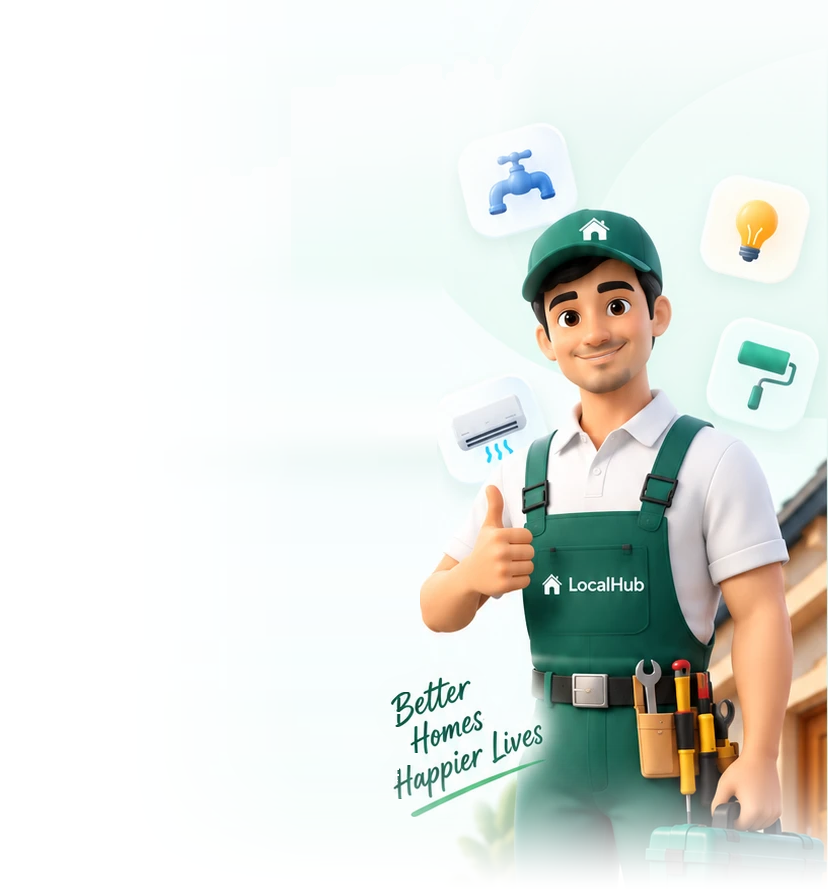
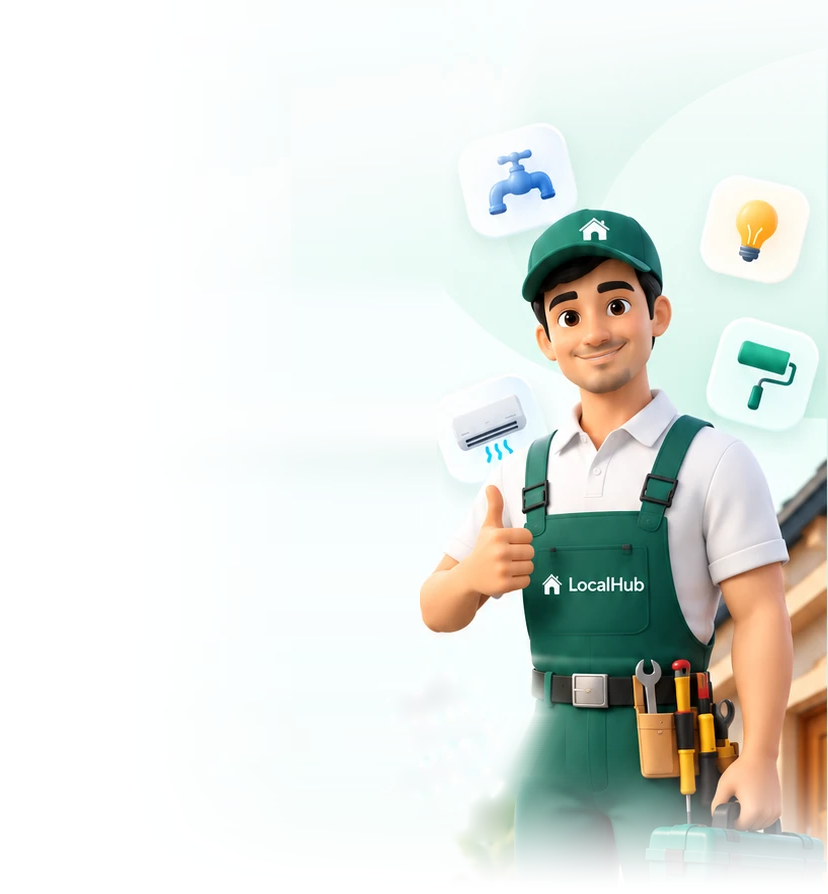
Welcome screen: remove the baked-in script, grow the technician, polish the field
Artwork: the "Better Homes Happier Lives" line and its underline are gone. The
words were lifted with a component mask and Laplace fill; the tail that sits on
the trousers was rebuilt from the clean rows above and below, shifted so the leg
silhouette stays aligned. assets/hero-technician.build.py reproduces the asset
from the original extraction.

Layout: the illustration is drawn 22% oversized - its left half is empty, so only
the technician grows - and the copy column is capped so the two never meet. The
feature rows sit with the headline again.

Field: react-native-web's square focus outline is suppressed and replaced with a
halo that follows the rounded corners, the number formats as 98765 43210 as it is
typed, and there is a clear button and a valid-number tick. The country chevron
that opened nothing is gone.

diff --git a/apps/mobile/app/(auth)/phone.tsx b/apps/mobile/app/(auth)/phone.tsx
@@ -9,6 +9,7 @@ import Animated, {
   FadeIn,
   FadeInDown,
   FadeInLeft,
+  interpolateColor,
   useAnimatedStyle,
   useSharedValue,
   withRepeat,
@@ -41,11 +42,20 @@ interface Feature {
 
 const FEATURES: Feature[] = [
   { icon: 'shield-checkmark', from: '#E6F7EF', to: '#C8EBDC', fg: '#0E8A6A', title: 'Verified', body: 'Professionals' },
-  { icon: 'flash', from: '#FFF6E0', to: '#FFE8B8', fg: '#F0A400', title: 'Quick', body: '& Easy Booking' },
-  { glyph: '₹', from: '#E6F7EF', to: '#C8EBDC', fg: '#0E8A6A', title: 'Affordable', body: '& Transparent Pricing' },
+  { icon: 'flash', from: '#FFF6E0', to: '#FFE8B8', fg: '#F0A400', title: 'Quick', body: 'Easy booking' },
+  { glyph: '₹', from: '#E6F7EF', to: '#C8EBDC', fg: '#0E8A6A', title: 'Affordable', body: 'Clear pricing' },
 ];
 
+// The illustration is anchored bottom-right and its left half is empty, so it can be
+// drawn larger than the hero box. This is how much of the width the copy may use -
+// the rest is the technician's, and the two never meet.
+const COPY_WIDTH = 0.44;
+
 const AnimatedPressable = Animated.createAnimatedComponent(Pressable);
+
+// react-native-web renders a real <input>, which the browser gives a square focus
+// outline that ignores our rounded field. The halo below replaces it.
+const NO_OUTLINE = Platform.OS === 'web' ? ({ outlineStyle: 'none' } as object) : null;
 
 export default function PhoneScreen() {
   const t = useStrings();
@@ -66,13 +76,15 @@ export default function PhoneScreen() {
   const natWidth = heroBox.w || width;
   const natHeight = natWidth * HERO_RATIO;
   const fit = heroBox.h > 0 ? Math.min(1, heroBox.h / natHeight) : 1;
-  // on short handsets pull the art in a little more so the script line clears the copy
-  const scale = Math.max(height < 700 ? fit * 0.92 : fit, 0.7);
+  // the artwork's left half is empty, so drawing it oversized only makes the technician
+  // bigger - it grows into that margin, never into the copy column
+  const grow = compact ? 1.1 : 1.22;
+  const scale = Math.max((height < 700 ? fit * 0.92 : fit) * grow, 0.7);
   const heroWidth = natWidth * scale;
   const heroHeight = natHeight * scale;
-  // the hand-written line baked into the art occupies the bottom third of it - keep the
-  // feature rows above that band so nothing ever crosses the copy
-  const copyBottomInset = Math.min(Math.max(52, heroHeight * 0.33), compact ? 70 : 150);
+  // the copy is laid out top-and-bottom, so this inset is what lifts the feature rows
+  // clear of the card and keeps them sitting with the headline rather than under it
+  const copyBottomInset = Math.min(Math.max(72, heroHeight * 0.26), compact ? 96 : 140);
 
   // continuous gentle float of the whole illustration
   const floatY = useSharedValue(0);
@@ -115,6 +127,19 @@ export default function PhoneScreen() {
   };
 
   const borderColor = error ? palette.danger : focused ? palette.primary : '#E4EDE9';
+  const digits = phone.replace(/\D/g, '');
+  const complete = normaliseIndianPhone(phone) !== null;
+
+  // a focus halo that follows the field's rounded corners, instead of the square
+  // outline a browser draws on the input itself
+  const ring = useSharedValue(0);
+  const ringStyle = useAnimatedStyle(() => ({
+    backgroundColor: interpolateColor(
+      ring.value,
+      [0, 1],
+      ['rgba(18,136,106,0)', error ? 'rgba(214,69,69,0.12)' : 'rgba(18,136,106,0.13)'],
+    ),
+  }));
 
   return (
     <LinearGradient colors={['#FFFFFF', '#FBFDFD', '#F4FDFA', '#EAF8F1']} locations={[0, 0.35, 0.72, 1]} style={styles.root}>
@@ -167,7 +192,7 @@ export default function PhoneScreen() {
               </Animated.View>
               </View>
 
-              <View style={[styles.features, compact && styles.featuresCompact]}>
+              <View style={[styles.features, compact && styles.featuresCompact, { maxWidth: width * COPY_WIDTH + 40 }]}>
                 {FEATURES.map((f, i) => (
                   <Animated.View key={f.title} entering={FadeInLeft.delay(400 + i * 110).duration(520)} style={styles.feature}>
                     <LinearGradient colors={[f.from, f.to]} start={{ x: 0.2, y: 0 }} end={{ x: 0.8, y: 1 }} style={styles.featureIcon}>
@@ -194,8 +219,9 @@ export default function PhoneScreen() {
             </Text>
             <Text style={styles.fieldLabel}>Mobile number</Text>
 
-            <Animated.View style={[styles.field, compact && styles.fieldCompact, { borderColor }, fieldStyle]}>
-              <Pressable accessibilityRole="button" accessibilityLabel="Country code India +91" style={styles.country}>
+            <Animated.View style={[styles.ring, ringStyle, fieldStyle]}>
+            <View style={[styles.field, compact && styles.fieldCompact, { borderColor }]}>
+              <View accessible accessibilityLabel="Country code India +91" style={styles.country}>
                 <View style={styles.flag}>
                   <View style={[styles.flagBand, { backgroundColor: '#FF9933' }]} />
                   <View style={[styles.flagBand, styles.flagMid]}>
@@ -206,28 +232,43 @@ export default function PhoneScreen() {
                 <Text weight="semibold" style={styles.code}>
                   +91
                 </Text>
-                <Ionicons name="chevron-down" size={16} color="#8FA39B" />
-              </Pressable>
+              </View>
               <View style={styles.divider} />
               <TextInput
-                value={phone}
+                value={digits.length > 5 ? `${digits.slice(0, 5)} ${digits.slice(5)}` : digits}
                 onChangeText={(v) => {
-                  setPhone(v);
+                  setPhone(v.replace(/\D/g, '').slice(0, 10));
                   if (error) setError(null);
                 }}
-                onFocus={() => setFocused(true)}
-                onBlur={() => setFocused(false)}
+                onFocus={() => {
+                  setFocused(true);
+                  ring.value = withTiming(1, { duration: 190 });
+                }}
+                onBlur={() => {
+                  setFocused(false);
+                  ring.value = withTiming(0, { duration: 190 });
+                }}
                 onSubmitEditing={submit}
                 placeholder="98765 43210"
                 placeholderTextColor="#A9B8B1"
                 keyboardType="phone-pad"
                 textContentType="telephoneNumber"
                 autoComplete="tel"
-                maxLength={12}
+                maxLength={11}
                 returnKeyType="done"
                 accessibilityLabel="Mobile number"
-                style={styles.input}
+                style={[styles.input, NO_OUTLINE]}
               />
+              {complete ? (
+                <Animated.View entering={FadeIn.duration(200)}>
+                  <Ionicons name="checkmark-circle" size={22} color={palette.primary} />
+                </Animated.View>
+              ) : digits.length > 0 ? (
+                <Pressable accessibilityRole="button" accessibilityLabel="Clear number" hitSlop={10} onPress={() => setPhone('')}>
+                  <Ionicons name="close-circle" size={20} color="#C2CEC9" />
+                </Pressable>
+              ) : null}
+            </View>
             </Animated.View>
 
             {error ? (
@@ -316,6 +357,7 @@ const styles = StyleSheet.create({
     elevation: 3,
   },
   featureText: { flexShrink: 1 },
+  copyColumn: { alignSelf: 'flex-start' },
   featureCompact: { fontSize: 13, lineHeight: 18.5 },
   featuresCompact: { gap: spacing.md },
   featureTitle: { fontSize: 14.5, lineHeight: 20, color: '#16241F' },
@@ -341,15 +383,16 @@ const styles = StyleSheet.create({
   ctaCompact: { height: 52 },
   cardTitle: { fontSize: 15, lineHeight: 22, letterSpacing: -0.2, color: '#0F1D18' },
   fieldLabel: { fontSize: 12.5, color: '#8C9E97', marginTop: spacing.md + 2, marginBottom: spacing.xs + 2 },
-  field: { flexDirection: 'row', alignItems: 'center', height: 56, borderRadius: 15, borderWidth: 1.5, backgroundColor: '#FFFFFF', paddingHorizontal: spacing.md },
-  country: { flexDirection: 'row', alignItems: 'center', gap: 7, paddingRight: spacing.sm, minHeight: 44 },
+  ring: { borderRadius: 19, padding: 4, marginHorizontal: -4 },
+  field: { flexDirection: 'row', alignItems: 'center', gap: spacing.sm, height: 56, borderRadius: 15, borderWidth: 1.5, backgroundColor: '#FFFFFF', paddingHorizontal: spacing.md },
+  country: { flexDirection: 'row', alignItems: 'center', gap: 7, minHeight: 44 },
   flag: { width: 28, height: 19, borderRadius: 3, overflow: 'hidden', borderWidth: StyleSheet.hairlineWidth, borderColor: '#D9E4DF' },
   flagBand: { flex: 1 },
   flagMid: { backgroundColor: '#FFFFFF', alignItems: 'center', justifyContent: 'center' },
   chakra: { width: 6, height: 6, borderRadius: 3, borderWidth: 1, borderColor: '#000080' },
   code: { fontSize: 15.5, color: '#16241F' },
-  divider: { width: 1, height: 30, backgroundColor: '#E4EDE9', marginRight: spacing.md },
-  input: { flex: 1, fontSize: 15.5, fontFamily: typography.family.regular, color: '#0F1D18', height: '100%' },
+  divider: { width: 1, height: 28, backgroundColor: '#E4EDE9' },
+  input: { flex: 1, fontSize: 16.5, letterSpacing: 0.4, fontFamily: typography.family.medium, color: '#0F1D18', height: '100%' },
   noteRow: { flexDirection: 'row', alignItems: 'center', gap: 7, marginTop: spacing.md },
   note: { fontSize: 12.5, color: '#93A69E', flexShrink: 1 },
 

diff --git a/apps/mobile/assets/hero-technician.build.py b/apps/mobile/assets/hero-technician.build.py
@@ -1,0 +1,128 @@
+"""Rebuild the welcome hero asset from the pristine extraction, step by step."""
+import sys
+from collections import deque
+from PIL import Image, ImageFilter
+
+SRC = sys.argv[1]
+OUT = sys.argv[2]
+
+im = Image.open(SRC).convert('RGBA')
+px = im.load()
+w, h = im.size
+
+# 1. dissolve the hard top edge (content starts around y=150)
+alpha = im.split()[3].load()
+FADE, HARD = 200, 18
+for y in range(FADE):
+    t = max(0.0, (y - HARD) / (FADE - HARD))
+    k = t * t * (3 - 2 * t)
+    for x in range(w):
+        v = alpha[x, y]
+        if v:
+            alpha[x, y] = int(v * k)
+
+# 2. let the decorative mint field fade in from white instead of meeting it in one row
+mask = Image.new('L', (w, h), 0)
+mp = mask.load()
+for y in range(h):
+    for x in range(w):
+        R, G, B, A = px[x, y]
+        if A < 8:
+            continue
+        lum = 0.299 * R + 0.587 * G + 0.114 * B
+        if G - R > 6 and 205 < lum < 251:
+            mp[x, y] = 255
+mask = mask.filter(ImageFilter.MedianFilter(5))
+mp = mask.load()
+RAMP, WHITE = 190.0, (252, 254, 254)
+for x in range(w):
+    y0 = next((y for y in range(h) if mp[x, y] > 128), None)
+    if y0 is None:
+        continue
+    for y in range(y0, min(h, y0 + int(RAMP))):
+        t = (y - y0) / RAMP
+        k = (1 - (t * t * (3 - 2 * t))) * 0.94
+        R, G, B, A = px[x, y]
+        px[x, y] = (int(R + (WHITE[0] - R) * k), int(G + (WHITE[1] - G) * k), int(B + (WHITE[2] - B) * k), A)
+
+
+def laplace_fill(pixels, region, rounds=600):
+    """Reconstruct `region` from its border - the areas we touch are smooth gradients."""
+    val = {p: [0.0, 0.0, 0.0] for p in region}
+
+    def get(p):
+        if p in val:
+            return val[p]
+        q = pixels[p]
+        return [float(q[0]), float(q[1]), float(q[2])]
+
+    pts = sorted(region)
+    for _ in range(rounds):
+        for (x, y) in pts:
+            a, b, c, e = get((x - 1, y)), get((x + 1, y)), get((x, y - 1)), get((x, y + 1))
+            val[(x, y)] = [(a[i] + b[i] + c[i] + e[i]) / 4.0 for i in range(3)]
+    for p in pts:
+        v = val[p]
+        pixels[p] = (int(v[0] + .5), int(v[1] + .5), int(v[2] + .5), pixels[p][3])
+
+
+# 3. remove the baked-in script line - components of green that are not the uniform
+X0, X1, Y0, Y1 = 372, 600, 636, 892
+raw = {}
+for y in range(Y0, Y1):
+    for x in range(X0, X1):
+        R, G, B, A = px[x, y]
+        raw[(x, y)] = A > 40 and (G - R) > 10 and (G - B) > 5
+
+script, seen = set(), set()
+for p in raw:
+    if not raw[p] or p in seen:
+        continue
+    comp, q, touches_edge = [], deque([p]), False
+    seen.add(p)
+    while q:
+        c = q.popleft()
+        comp.append(c)
+        if c[0] >= X1 - 2:
+            touches_edge = True
+        for d in ((1, 0), (-1, 0), (0, 1), (0, -1)):
+            n = (c[0] + d[0], c[1] + d[1])
+            if n in raw and raw[n] and n not in seen:
+                seen.add(n)
+                q.append(n)
+    if not touches_edge and len(comp) < 4200:
+        script.update(comp)
+
+grown = set()
+for (x, y) in script:
+    for dx in range(-3, 4):
+        for dy in range(-3, 4):
+            if X0 <= x + dx < X1 and Y0 <= y + dy < Y1:
+                grown.add((x + dx, y + dy))
+laplace_fill(px, grown)
+print('pass 1 removed', len(grown), 'px')
+
+im.save(OUT)
+print('saved', OUT)
+
+# 4. the tail of the script sits on the trousers - rebuild that band from the clean
+#    rows above and below, shifting them so the leg silhouette stays aligned.
+def leg_edge(y):
+    for x in range(470, 575):
+        if all(px[x + i, y][3] > 40 and (px[x + i, y][1] - px[x + i, y][0]) > 25 for i in range(8)):
+            return x
+    return None
+
+
+sA, sB = 716, 752
+eA, eB = leg_edge(sA), leg_edge(sB)
+for yt in range(718, 752):
+    t = (yt - sA) / float(sB - sA)
+    e = eA + (eB - eA) * t
+    dA, dB = int(round(e - eA)), int(round(e - eB))
+    for x in range(505, 556):
+        a, b = px[x - dA, sA], px[x - dB, sB]
+        px[x, yt] = (int(a[0] + (b[0] - a[0]) * t), int(a[1] + (b[1] - a[1]) * t), int(a[2] + (b[2] - a[2]) * t), px[x, yt][3])
+
+im.save(OUT)
+print('script tail rebuilt')
